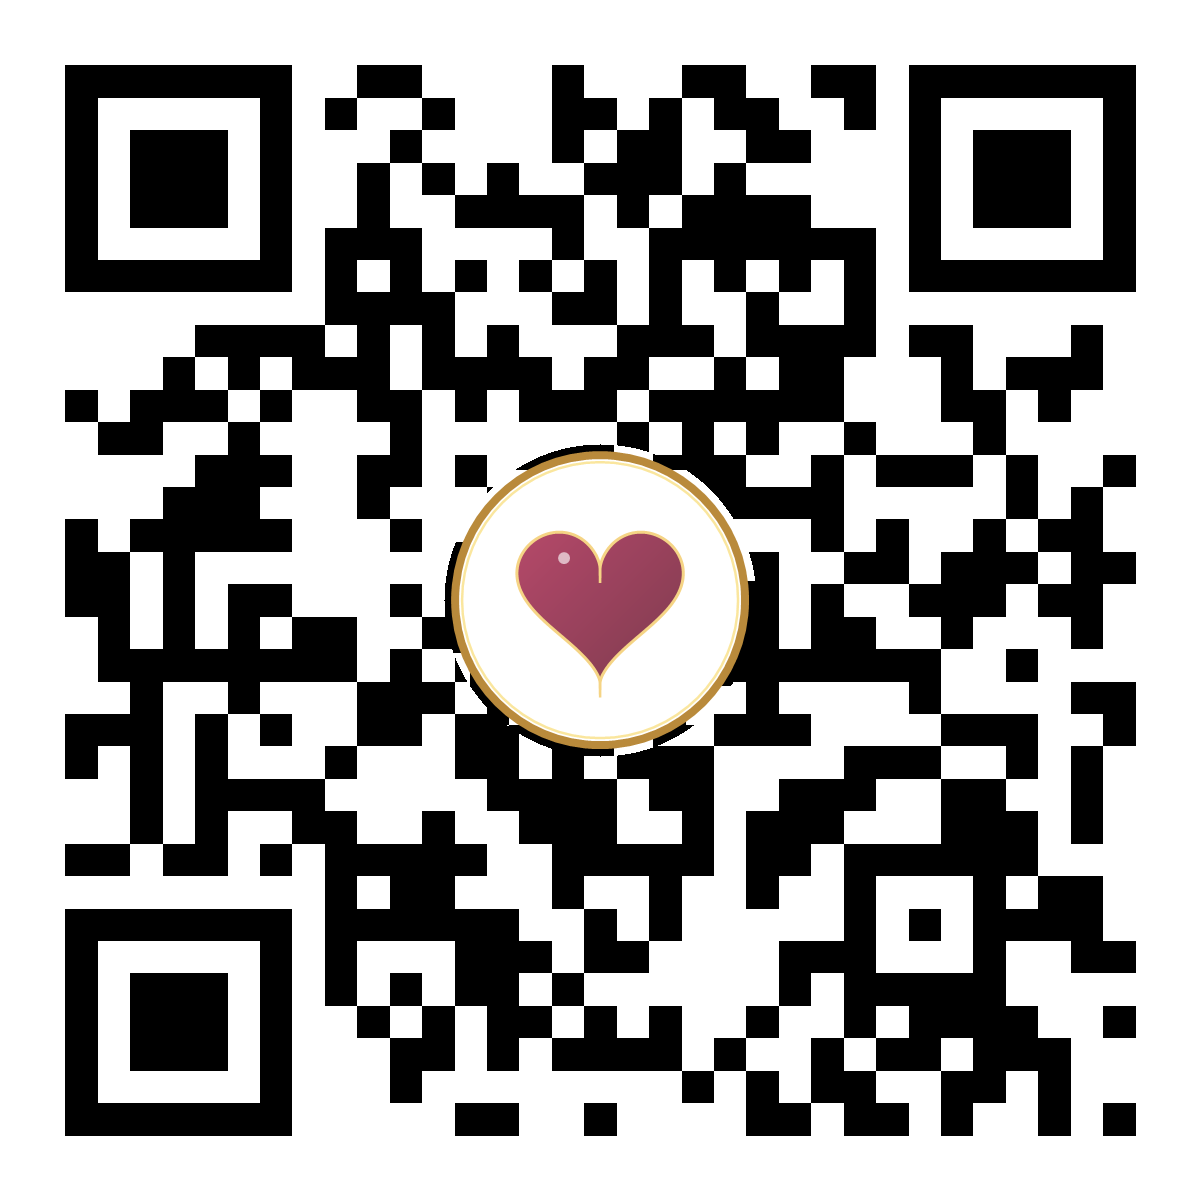
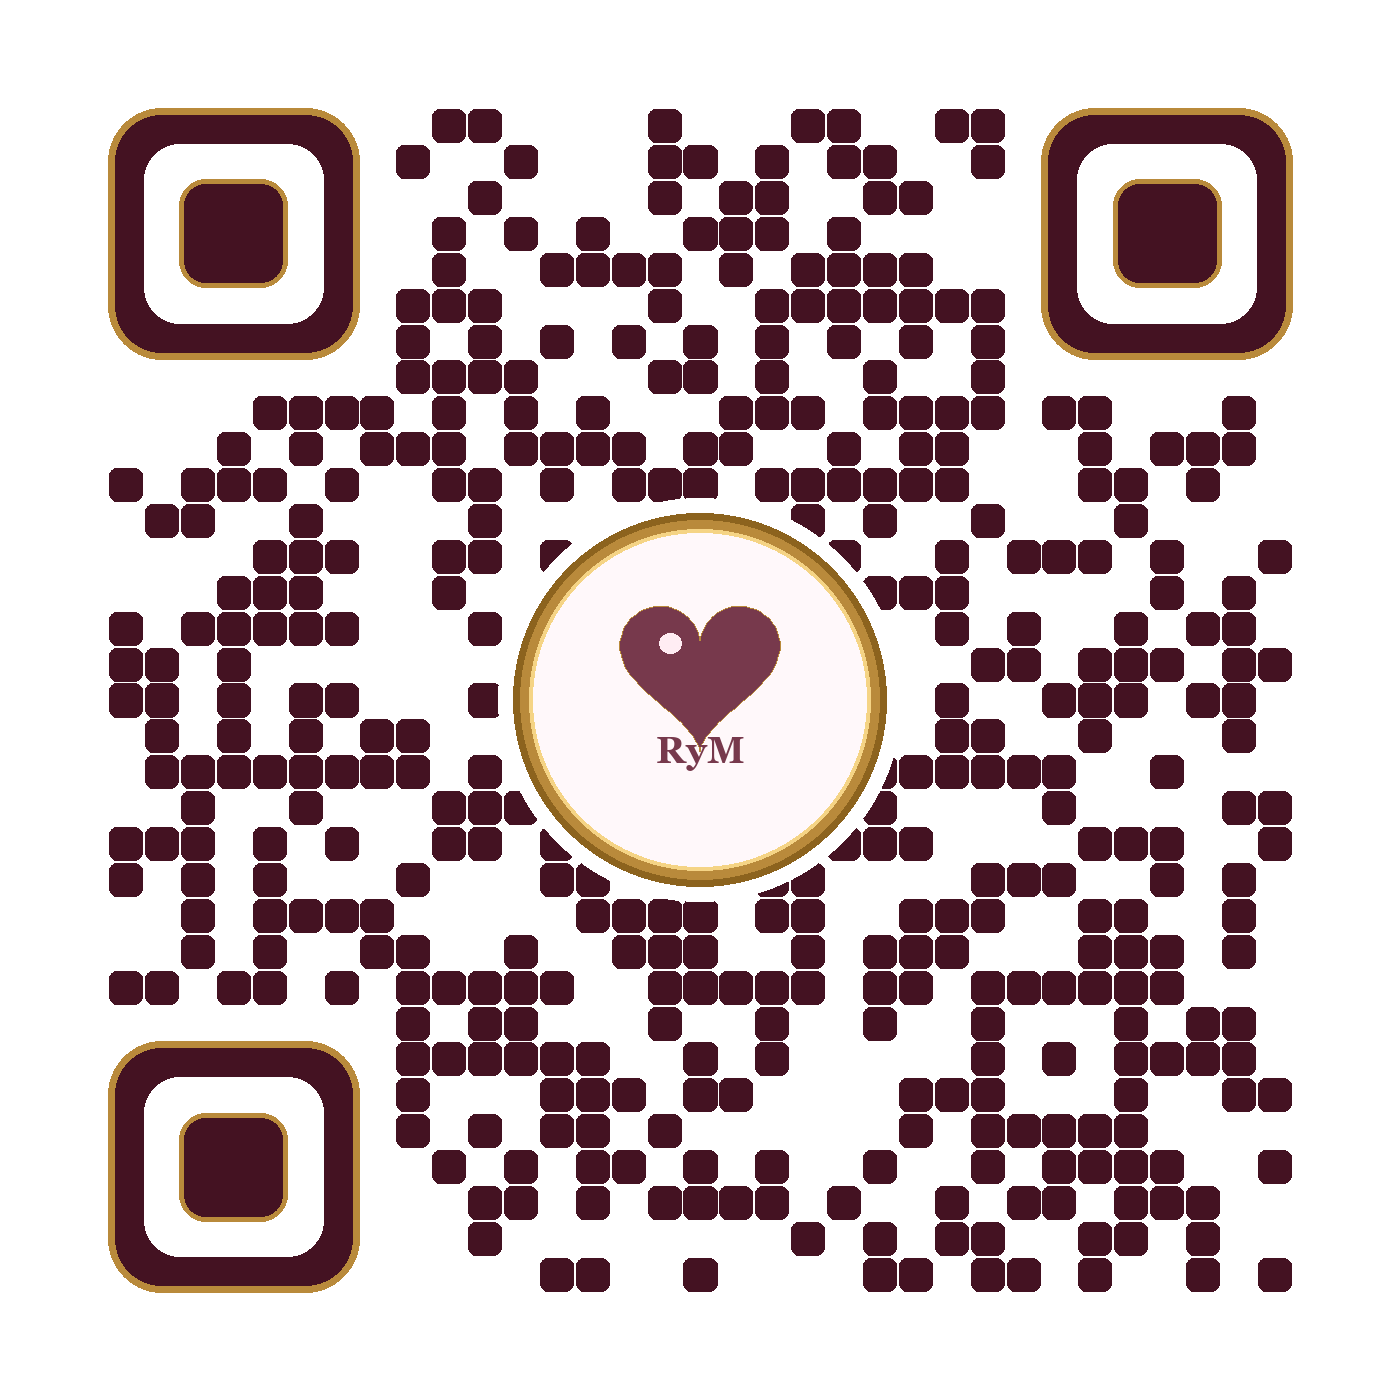
feat(d-002): Tarjetas de detalle de alta resolucion y QR de lujo para impresion

diff --git a/tarjeta-imprimible.html b/tarjeta-imprimible.html
@@ -1,0 +1,226 @@
+<!DOCTYPE html>
+<html lang="es">
+<head>
+  <meta charset="UTF-8" />
+  <meta name="viewport" content="width=device-width, initial-scale=1.0" />
+  <title>Tarjeta de Detalle Imprimible | Para mi Tilvi • RyM Joyería</title>
+  <link rel="preconnect" href="https://fonts.googleapis.com" />
+  <link rel="preconnect" href="https://fonts.gstatic.com" crossorigin />
+  <link href="https://fonts.googleapis.com/css2?family=Cormorant+Garamond:ital,wght@0,500;0,600;0,700;1,400;1,600&family=Montserrat:wght@300;400;500;600&display=swap" rel="stylesheet" />
+  <style>
+    :root {
+      --gold: #b98a3b;
+      --gold-light: #f5d485;
+      --berry: #77394c;
+      --paper: #fff9fb;
+    }
+
+    * {
+      box-sizing: border-box;
+      margin: 0;
+      padding: 0;
+    }
+
+    body {
+      font-family: 'Montserrat', sans-serif;
+      background: #f0edf0;
+      color: #2c2628;
+      min-height: 100vh;
+      padding: 24px 16px;
+      display: flex;
+      flex-direction: column;
+      align-items: center;
+    }
+
+    /* Barra de control para impresión (se oculta al imprimir) */
+    .toolbar {
+      background: #ffffff;
+      border: 1px solid #e0d0d8;
+      border-radius: 50px;
+      padding: 10px 24px;
+      margin-bottom: 28px;
+      display: flex;
+      align-items: center;
+      gap: 16px;
+      box-shadow: 0 8px 24px rgba(119, 57, 76, 0.1);
+      flex-wrap: wrap;
+      justify-content: center;
+    }
+
+    .btn-print {
+      background: linear-gradient(135deg, #77394c 0%, #bd4b6d 100%);
+      color: #ffffff;
+      border: none;
+      padding: 10px 24px;
+      border-radius: 25px;
+      font-family: 'Montserrat', sans-serif;
+      font-size: 13px;
+      font-weight: 600;
+      letter-spacing: 0.05em;
+      cursor: pointer;
+      display: inline-flex;
+      align-items: center;
+      gap: 8px;
+      box-shadow: 0 4px 14px rgba(119, 57, 76, 0.25);
+      transition: transform 0.2s, box-shadow 0.2s;
+    }
+
+    .btn-print:hover {
+      transform: translateY(-2px);
+      box-shadow: 0 6px 18px rgba(119, 57, 76, 0.35);
+    }
+
+    .btn-secondary {
+      background: #fdf5f8;
+      color: #77394c;
+      border: 1px solid #d4af37;
+      padding: 8px 18px;
+      border-radius: 20px;
+      font-size: 12px;
+      font-weight: 500;
+      text-decoration: none;
+      transition: background 0.2s;
+    }
+
+    .btn-secondary:hover {
+      background: #fae6ee;
+    }
+
+    /* Contenedor de la hoja imprimible */
+    .sheet {
+      background: #ffffff;
+      width: 100%;
+      max-width: 900px;
+      box-shadow: 0 16px 40px rgba(0, 0, 0, 0.12);
+      border-radius: 8px;
+      padding: 30px;
+      display: flex;
+      flex-direction: column;
+      align-items: center;
+    }
+
+    /* Grilla de tarjetas para cortar */
+    .cards-grid {
+      display: grid;
+      grid-template-columns: repeat(auto-fit, minmax(280px, 1fr));
+      gap: 30px;
+      width: 100%;
+      justify-items: center;
+    }
+
+    .card-preview {
+      width: 100%;
+      max-width: 380px;
+      border-radius: 6px;
+      box-shadow: 0 8px 24px rgba(0, 0, 0, 0.08);
+      border: 1px dashed #d0c0c8;
+      padding: 8px;
+      background: #ffffff;
+      text-align: center;
+    }
+
+    .card-preview img {
+      width: 100%;
+      height: auto;
+      display: block;
+      border-radius: 4px;
+    }
+
+    .card-label {
+      font-size: 11px;
+      color: #77394c;
+      font-weight: 600;
+      letter-spacing: 0.1em;
+      text-transform: uppercase;
+      margin-top: 10px;
+    }
+
+    .card-dimensions {
+      font-size: 10px;
+      color: #887a80;
+      margin-top: 2px;
+    }
+
+    /* Estilos estrictos para impresión */
+    @media print {
+      body {
+        background: #ffffff !important;
+        padding: 0 !important;
+        margin: 0 !important;
+      }
+
+      .toolbar, .no-print {
+        display: none !important;
+      }
+
+      .sheet {
+        box-shadow: none !important;
+        border-radius: 0 !important;
+        padding: 0 !important;
+        max-width: 100% !important;
+      }
+
+      .cards-grid {
+        grid-template-columns: repeat(2, 1fr) !important;
+        gap: 15mm !important;
+        padding: 10mm !important;
+      }
+
+      .card-preview {
+        box-shadow: none !important;
+        border: 0.5px dashed #ccc !important;
+        page-break-inside: avoid;
+        padding: 2mm !important;
+      }
+
+      .card-preview img {
+        -webkit-print-color-adjust: exact !important;
+        print-color-adjust: exact !important;
+      }
+
+      .card-label, .card-dimensions {
+        display: none !important;
+      }
+    }
+  </style>
+</head>
+<body>
+
+  <!-- Barra de Herramientas -->
+  <header class="toolbar">
+    <button class="btn-print" onclick="window.print()">
+      <svg width="18" height="18" fill="currentColor" viewBox="0 0 24 24"><path d="M19 8H5c-1.66 0-3 1.34-3 3v6h4v4h12v-4h4v-6c0-1.66-1.34-3-3-3zm-3 11H8v-5h8v5zm3-7c-.55 0-1-.45-1-1s.45-1 1-1 1 .45 1 1-.45 1-1 1zm-1-9H6v4h12V3z"/></svg>
+      <span>Imprimir Tarjetas (Ctrl + P)</span>
+    </button>
+    <a href="assets/tarjeta-detalle-d002-vertical.png" download="tarjeta-detalle-tilvi-vertical.png" class="btn-secondary">
+      Descargar Tarjeta Vertical (300 DPI)
+    </a>
+    <a href="assets/tarjeta-detalle-d002-cuadrada.png" download="tarjeta-detalle-tilvi-cuadrada.png" class="btn-secondary">
+      Descargar Tarjeta Cuadrada (300 DPI)
+    </a>
+    <a href="assets/qr-d002-luxury.png" download="qr-d002-luxury.png" class="btn-secondary">
+      Descargar Solo QR
+    </a>
+  </header>
+
+  <!-- Hoja Imprimible -->
+  <main class="sheet">
+    <div class="cards-grid">
+      <!-- Tarjeta 1: Vertical para Estuche/Sobre -->
+      <div class="card-preview">
+        <img src="assets/tarjeta-detalle-d002-vertical.png" alt="Tarjeta Vertical de Detalle - Para mi Tilvi" />
+        <div class="card-label">Formato Tarjetón de Lujo</div>
+        <div class="card-dimensions">Ideal para sobre o tarjeta de regalo (10 × 15 cm o 7 × 10.5 cm)</div>
+      </div>
+
+      <!-- Tarjeta 2: Cuadrada para Estuche de Joya -->
+      <div class="card-preview">
+        <img src="assets/tarjeta-detalle-d002-cuadrada.png" alt="Tarjeta Cuadrada de Estuche - Para mi Tilvi" />
+        <div class="card-label">Formato Estuche Cuadrado</div>
+        <div class="card-dimensions">Ideal para interior de caja de terciopelo (8 × 8 cm o 9 × 9 cm)</div>
+      </div>
+    </div>
+  </main>
+
+</body>
+</html>
